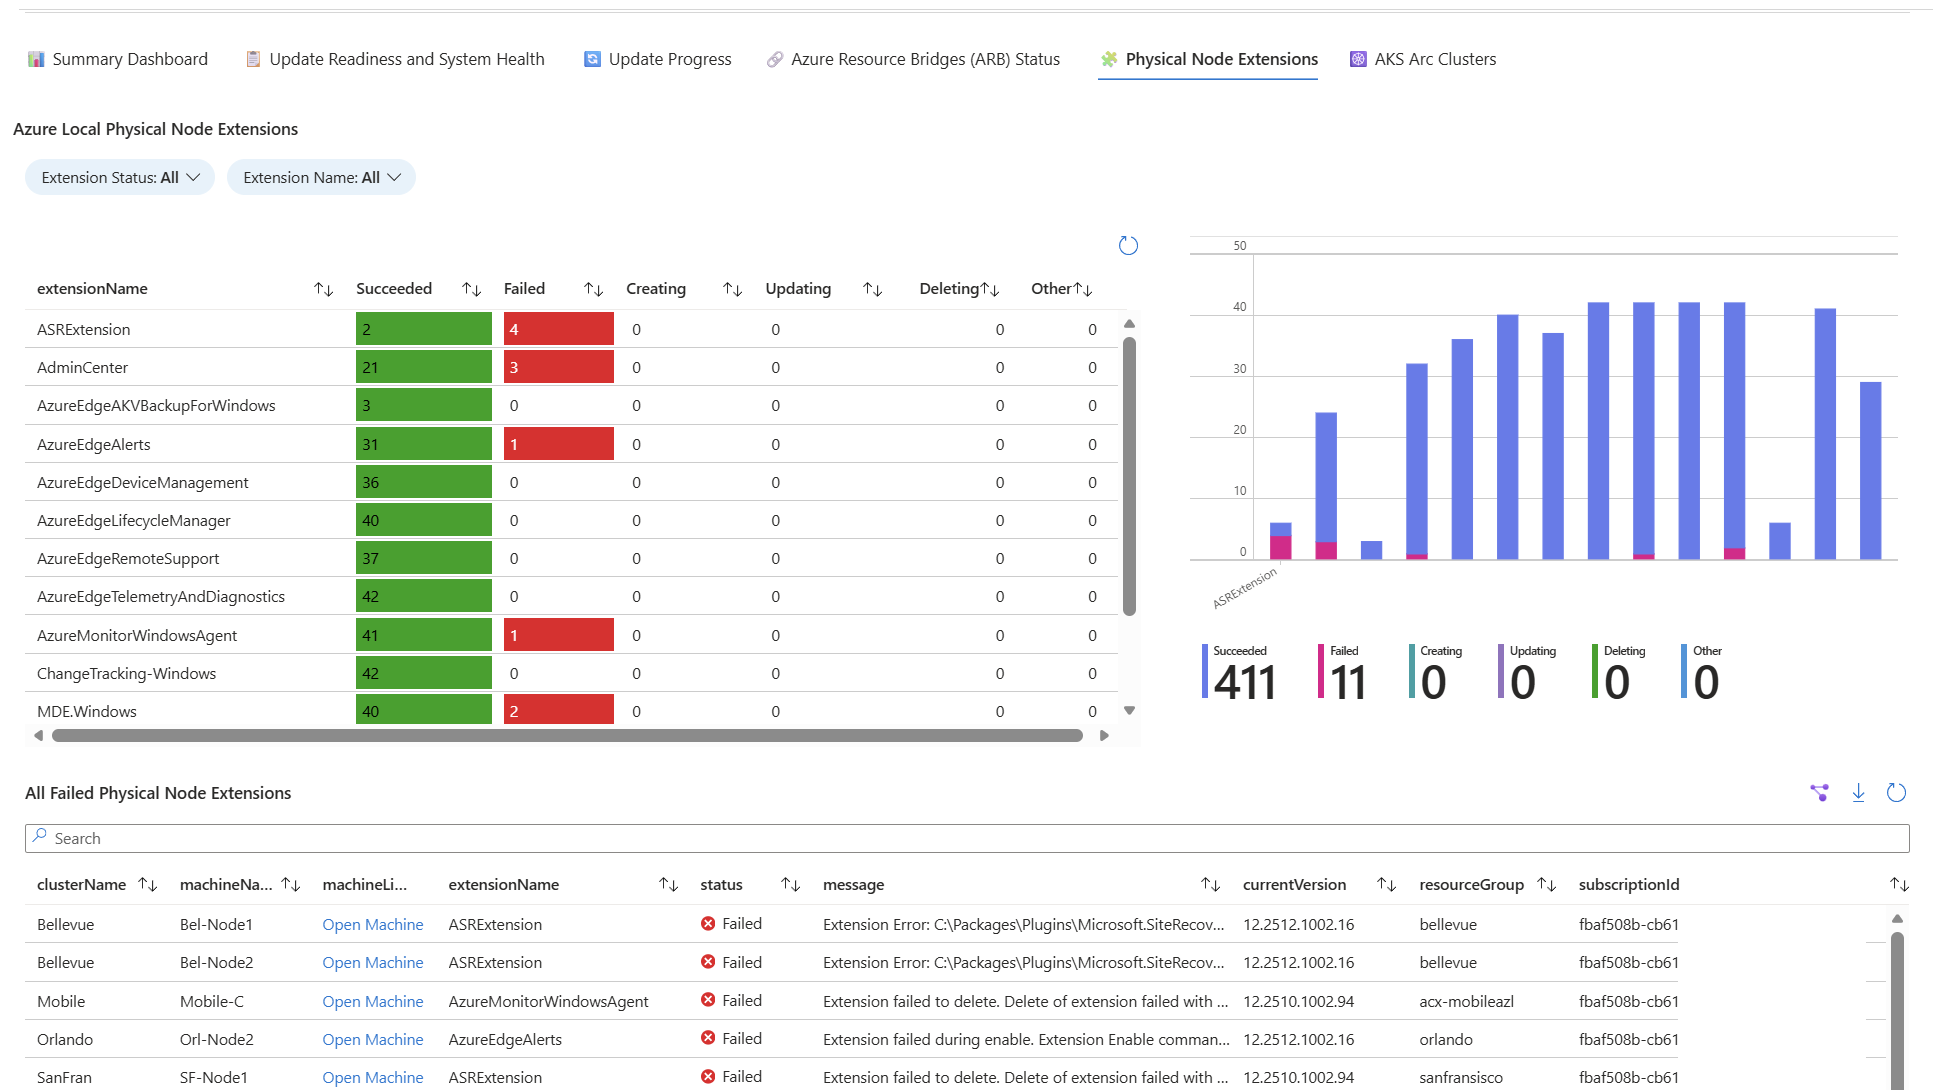
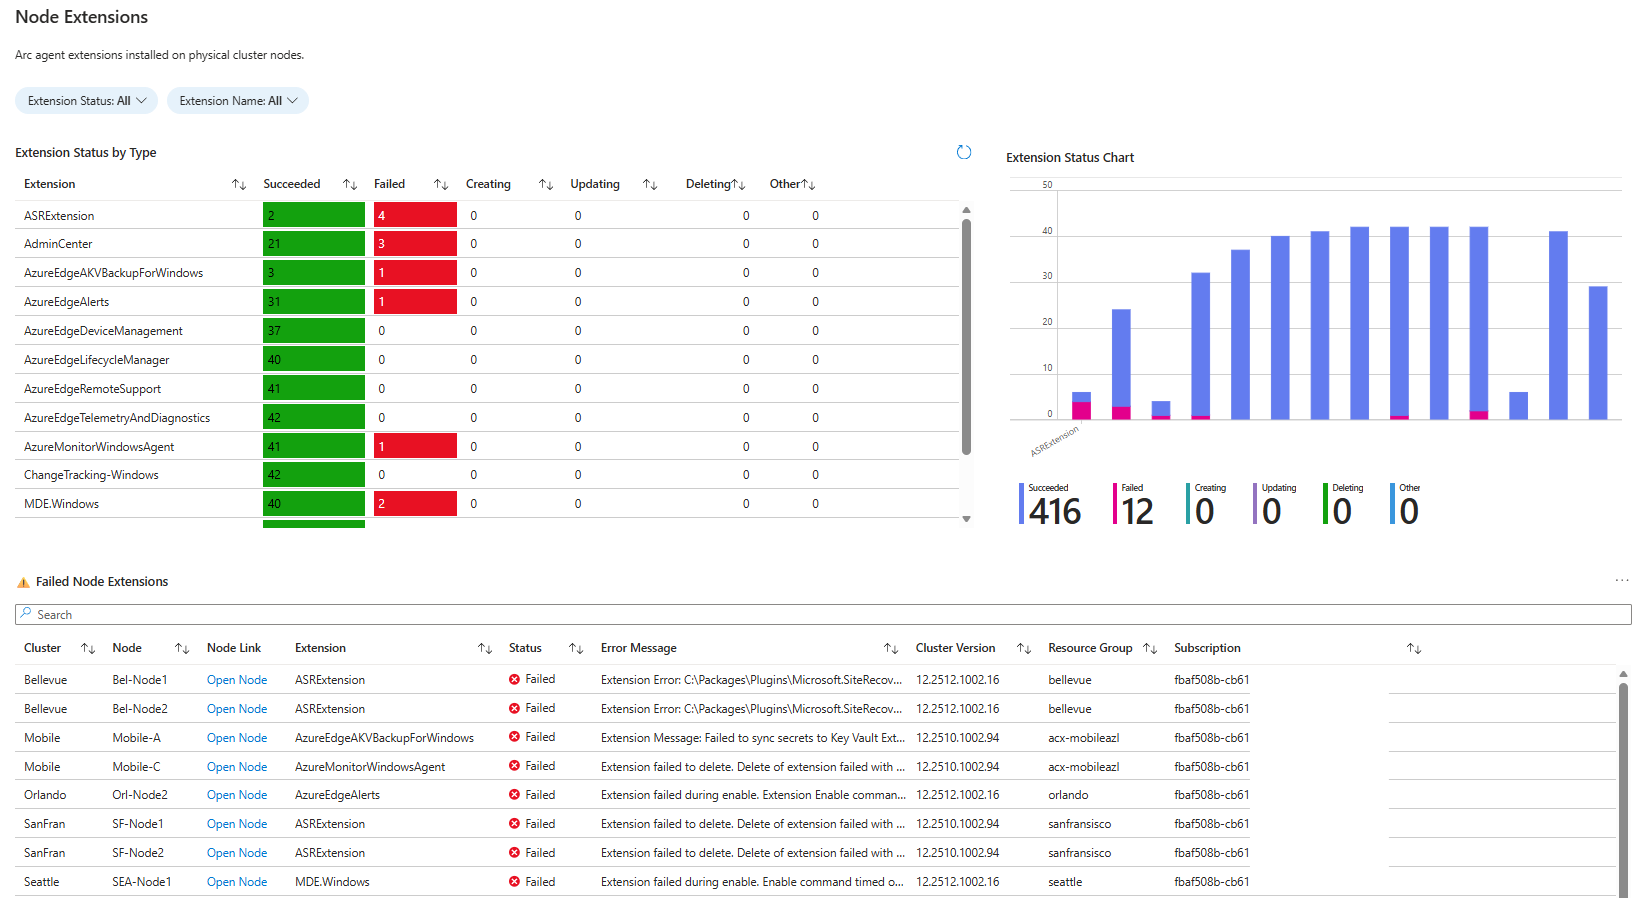
Publish v0.4.4

diff --git a/Azure-Local-Manage-Updates-At-Scale/README.md b/Azure-Local-Manage-Updates-At-Scale/README.md
@@ -83,6 +83,8 @@ Comprehensive view of physical server machines in Azure Local clusters:
   - Extension status summary table and bar chart
   - Failed extensions table with error details
 
+![Azure Local Machines](images/physical-nodes-screenshot.png)
+
 ![Physical Machine Extensions](images/physical-nodes-extensions-screenshot.png)
 
 ### 🔗 ARB Status
